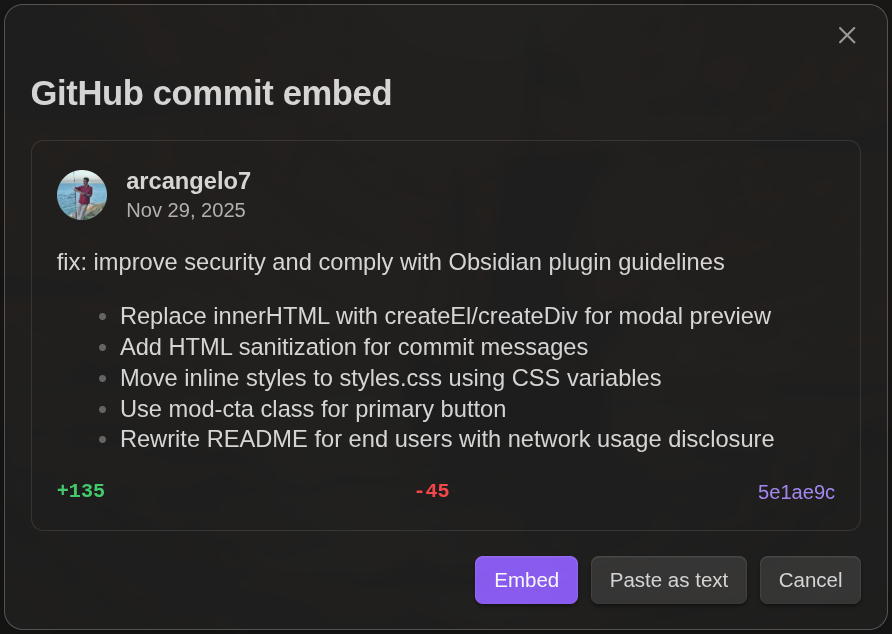
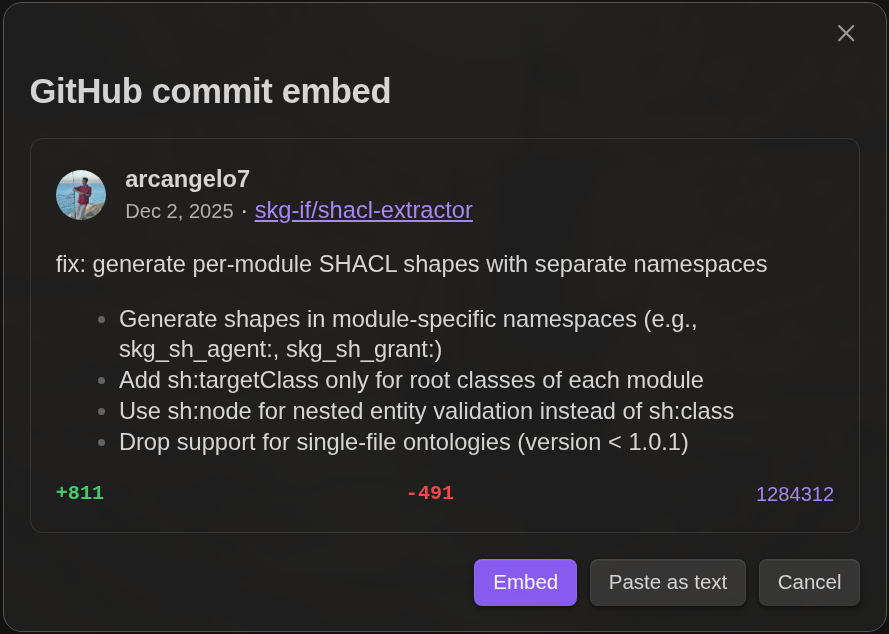
feat: display repository name in commit card
Add owner/repo information to the commit card header, shown next to
the date with a link to the GitHub repository. This provides context
about which repository the commit belongs to.

diff --git a/main.ts b/main.ts
@@ -14,6 +14,8 @@ interface CommitData {
 		deletions: number;
 	};
 	url: string;
+	owner: string;
+	repo: string;
 }
 
 interface GitHubCommitResponse {
@@ -86,7 +88,14 @@ class CommitEmbedModal extends Modal {
 		}
 		const authorInfo = header.createDiv({ cls: 'github-commit-author-info' });
 		authorInfo.createEl('strong', { text: commit.author.login });
-		authorInfo.createEl('span', { text: this.formatDate(commit.date), cls: 'github-commit-date' });
+		const metaInfo = authorInfo.createEl('span', { cls: 'github-commit-meta' });
+		metaInfo.createEl('span', { text: this.formatDate(commit.date), cls: 'github-commit-date' });
+		metaInfo.createEl('span', { text: ' · ' });
+		metaInfo.createEl('a', {
+			text: `${commit.owner}/${commit.repo}`,
+			cls: 'github-commit-repo',
+			attr: { href: `https://github.com/${commit.owner}/${commit.repo}` }
+		});
 
 		const messageDiv = card.createDiv({ cls: 'github-commit-message' });
 		const parsedMessage = marked.parse(commit.message, { async: false });
@@ -181,7 +190,9 @@ class CommitEmbedModal extends Modal {
 				additions: data.stats?.additions || 0,
 				deletions: data.stats?.deletions || 0
 			},
-			url: data.html_url
+			url: data.html_url,
+			owner: parsed.owner,
+			repo: parsed.repo
 		};
 	}
 
@@ -206,6 +217,8 @@ class CommitEmbedModal extends Modal {
     <div>
       <strong style="display: block; color: #1f2328;">${commit.author.login}</strong>
       <span style="font-size: 0.85em; color: #656d76;">${this.formatDate(commit.date)}</span>
+      <span style="font-size: 0.85em; color: #656d76;"> · </span>
+      <a href="https://github.com/${commit.owner}/${commit.repo}" style="font-size: 0.85em; color: #0969da; text-decoration: none;">${commit.owner}/${commit.repo}</a>
     </div>
   </div>
   <div style="margin: 12px 0; color: #1f2328;">
